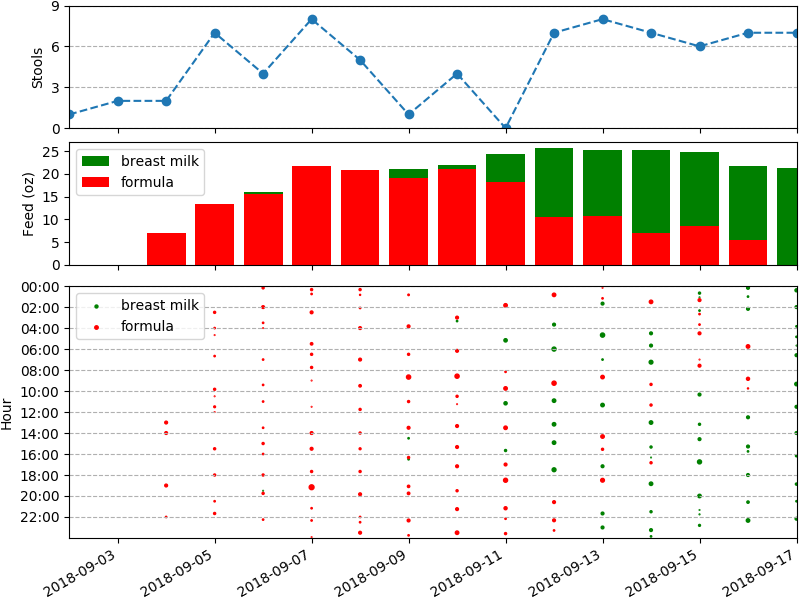
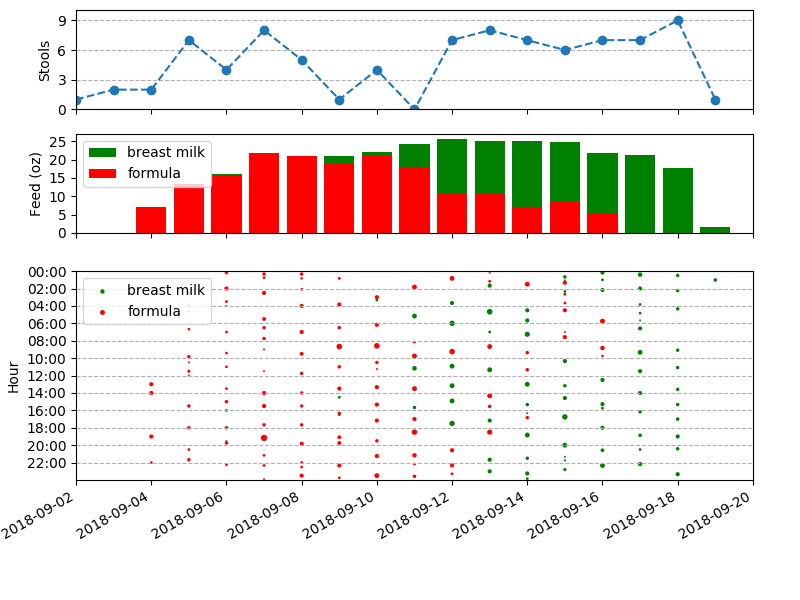
update 9,18,2018

diff --git a/analyze.py b/analyze.py
@@ -27,25 +27,26 @@ stool = pd.read_csv(
 
 fig = plt.figure(figsize=(8, 6))
 
-# plot daily stool count
+# ----------- plot daily stool count -----------------------
+dates = stool.index.date
 ax1 = plt.subplot(411)
 #ax1 = plt.subplot2grid((6, 1), (0, 0))
 ax1.grid(True, axis='y', linestyle='--')
-plt.plot(stool.index.date, stool.Count.values, 'o--')
+plt.plot(dates, stool.Count.values, 'o--')
 plt.ylabel('Stools')
 loc = plticker.MultipleLocator(
     base=3.0)  # this locator puts ticks at regular intervals
 ax1.yaxis.set_major_locator(loc)
+#ax1.set_xticks(stool.index.date, minor=True)
 plt.ylim([0, max(stool.Count.values) + 1])
 
-# plot daily feeding quantity
+# ----------- plot daily feeding quantity --------------------
 ax2 = plt.subplot(412, sharex=ax1)
 #ax2 = plt.subplot2grid((6, 1), (1, 0), rowspan=2, sharex=ax1)
-dates = df.index.date
 by_date = pd.pivot_table(
     df,
     values='Vol',
-    index=dates,
+    index=df.index.date,
     columns=['BM'],
     aggfunc=np.sum,
     fill_value=0)
@@ -55,37 +56,44 @@ plt.bar(
     by_date.index,
     by_date[True].values,
     bottom=by_date[False].values,
+    #    width=0.3,
     label='breast milk',
     color='g')
-plt.bar(
-    by_date.index, by_date[False].values, label='formula', color='r')
+plt.bar(by_date.index, by_date[False].values, label='formula', color='r')
 plt.ylabel('Feed (oz)')
 plt.legend(loc='upper left')
 loc = plticker.MultipleLocator(
     base=5.0)  # this locator puts ticks at regular intervals
 ax2.yaxis.set_major_locator(loc)
 
-# plot daily feeding pattern
+# ------------ plot daily feeding pattern -----------------
 #ax3 = plt.subplot2grid((6, 1), (3, 0), rowspan=3, sharex=ax1)
 ax3 = plt.subplot(212, sharex=ax1)
 bm = df.loc[df.BM]
 formula = df.loc[df.BM == False]
 for d, color, text in zip([bm, formula], ['g', 'r'],
                           ['breast milk', 'formula']):
-    dates = d.index.date
+    date = d.index.date
     times = d.index.time
     vol = d.Vol.values**2
-    day = datetime.timedelta(days=1)
-    plt.scatter(dates, times, s=vol, c=color, label=text)
+    plt.scatter(date, times, s=vol, c=color, label=text)
 
 plt.ylabel('Hour')
-ax3.set_xlim([min(dates) - day * 2, max(dates) + day])
+ax3.set_xlim([min(dates), max(dates)])
 hours = [datetime.time(i) for i in range(0, 24, 2)]
-ax3.set_ylim([hours[0], datetime.time(23, 59, 59)])
 plt.yticks(hours)
+ax3.set_ylim([hours[0], datetime.time(23, 59, 59)])
 ax3.grid(True, axis='y', linestyle='--')
 ax3.invert_yaxis()
 plt.legend(loc='upper left')
+
+# ------------ overall plot control ----------------
+plt.tight_layout(
+    pad=0.5,
+    w_pad=0,
+    h_pad=0,
+    )
+one_day = datetime.timedelta(days=1)
+plt.xlim([dates[0], dates[-1] + one_day])
 plt.gcf().autofmt_xdate()
-plt.tight_layout(pad=0, w_pad=0, h_pad=0)
 plt.savefig('image.png')
